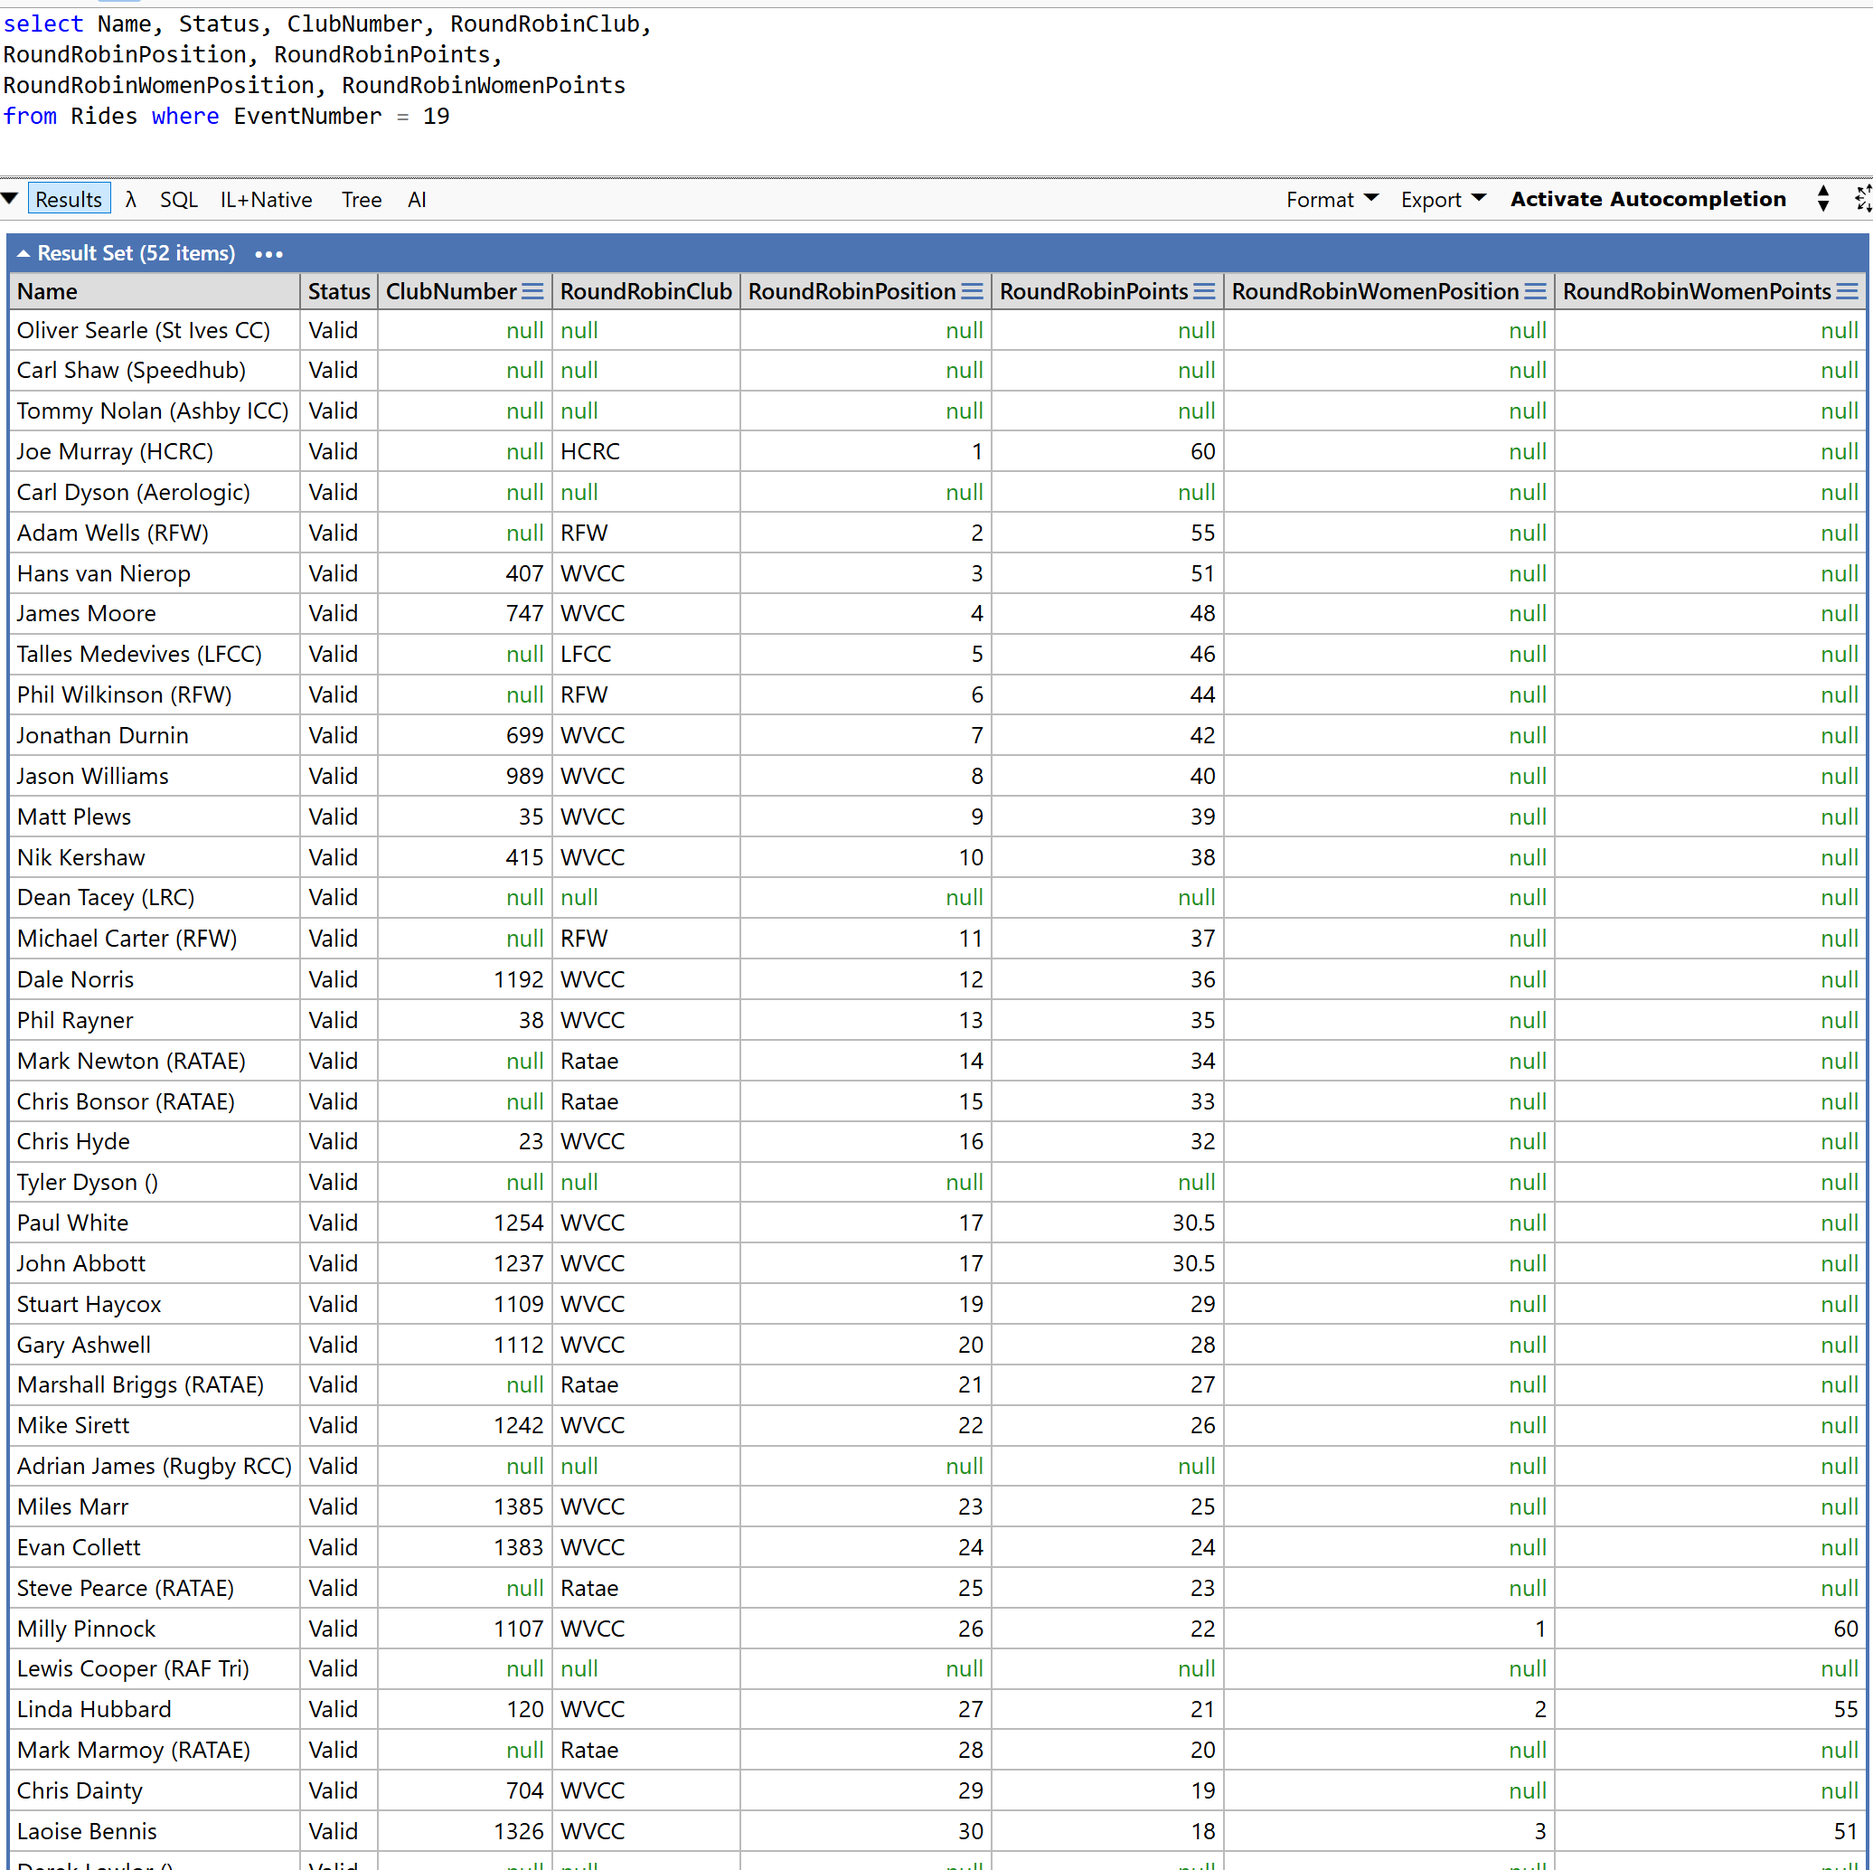
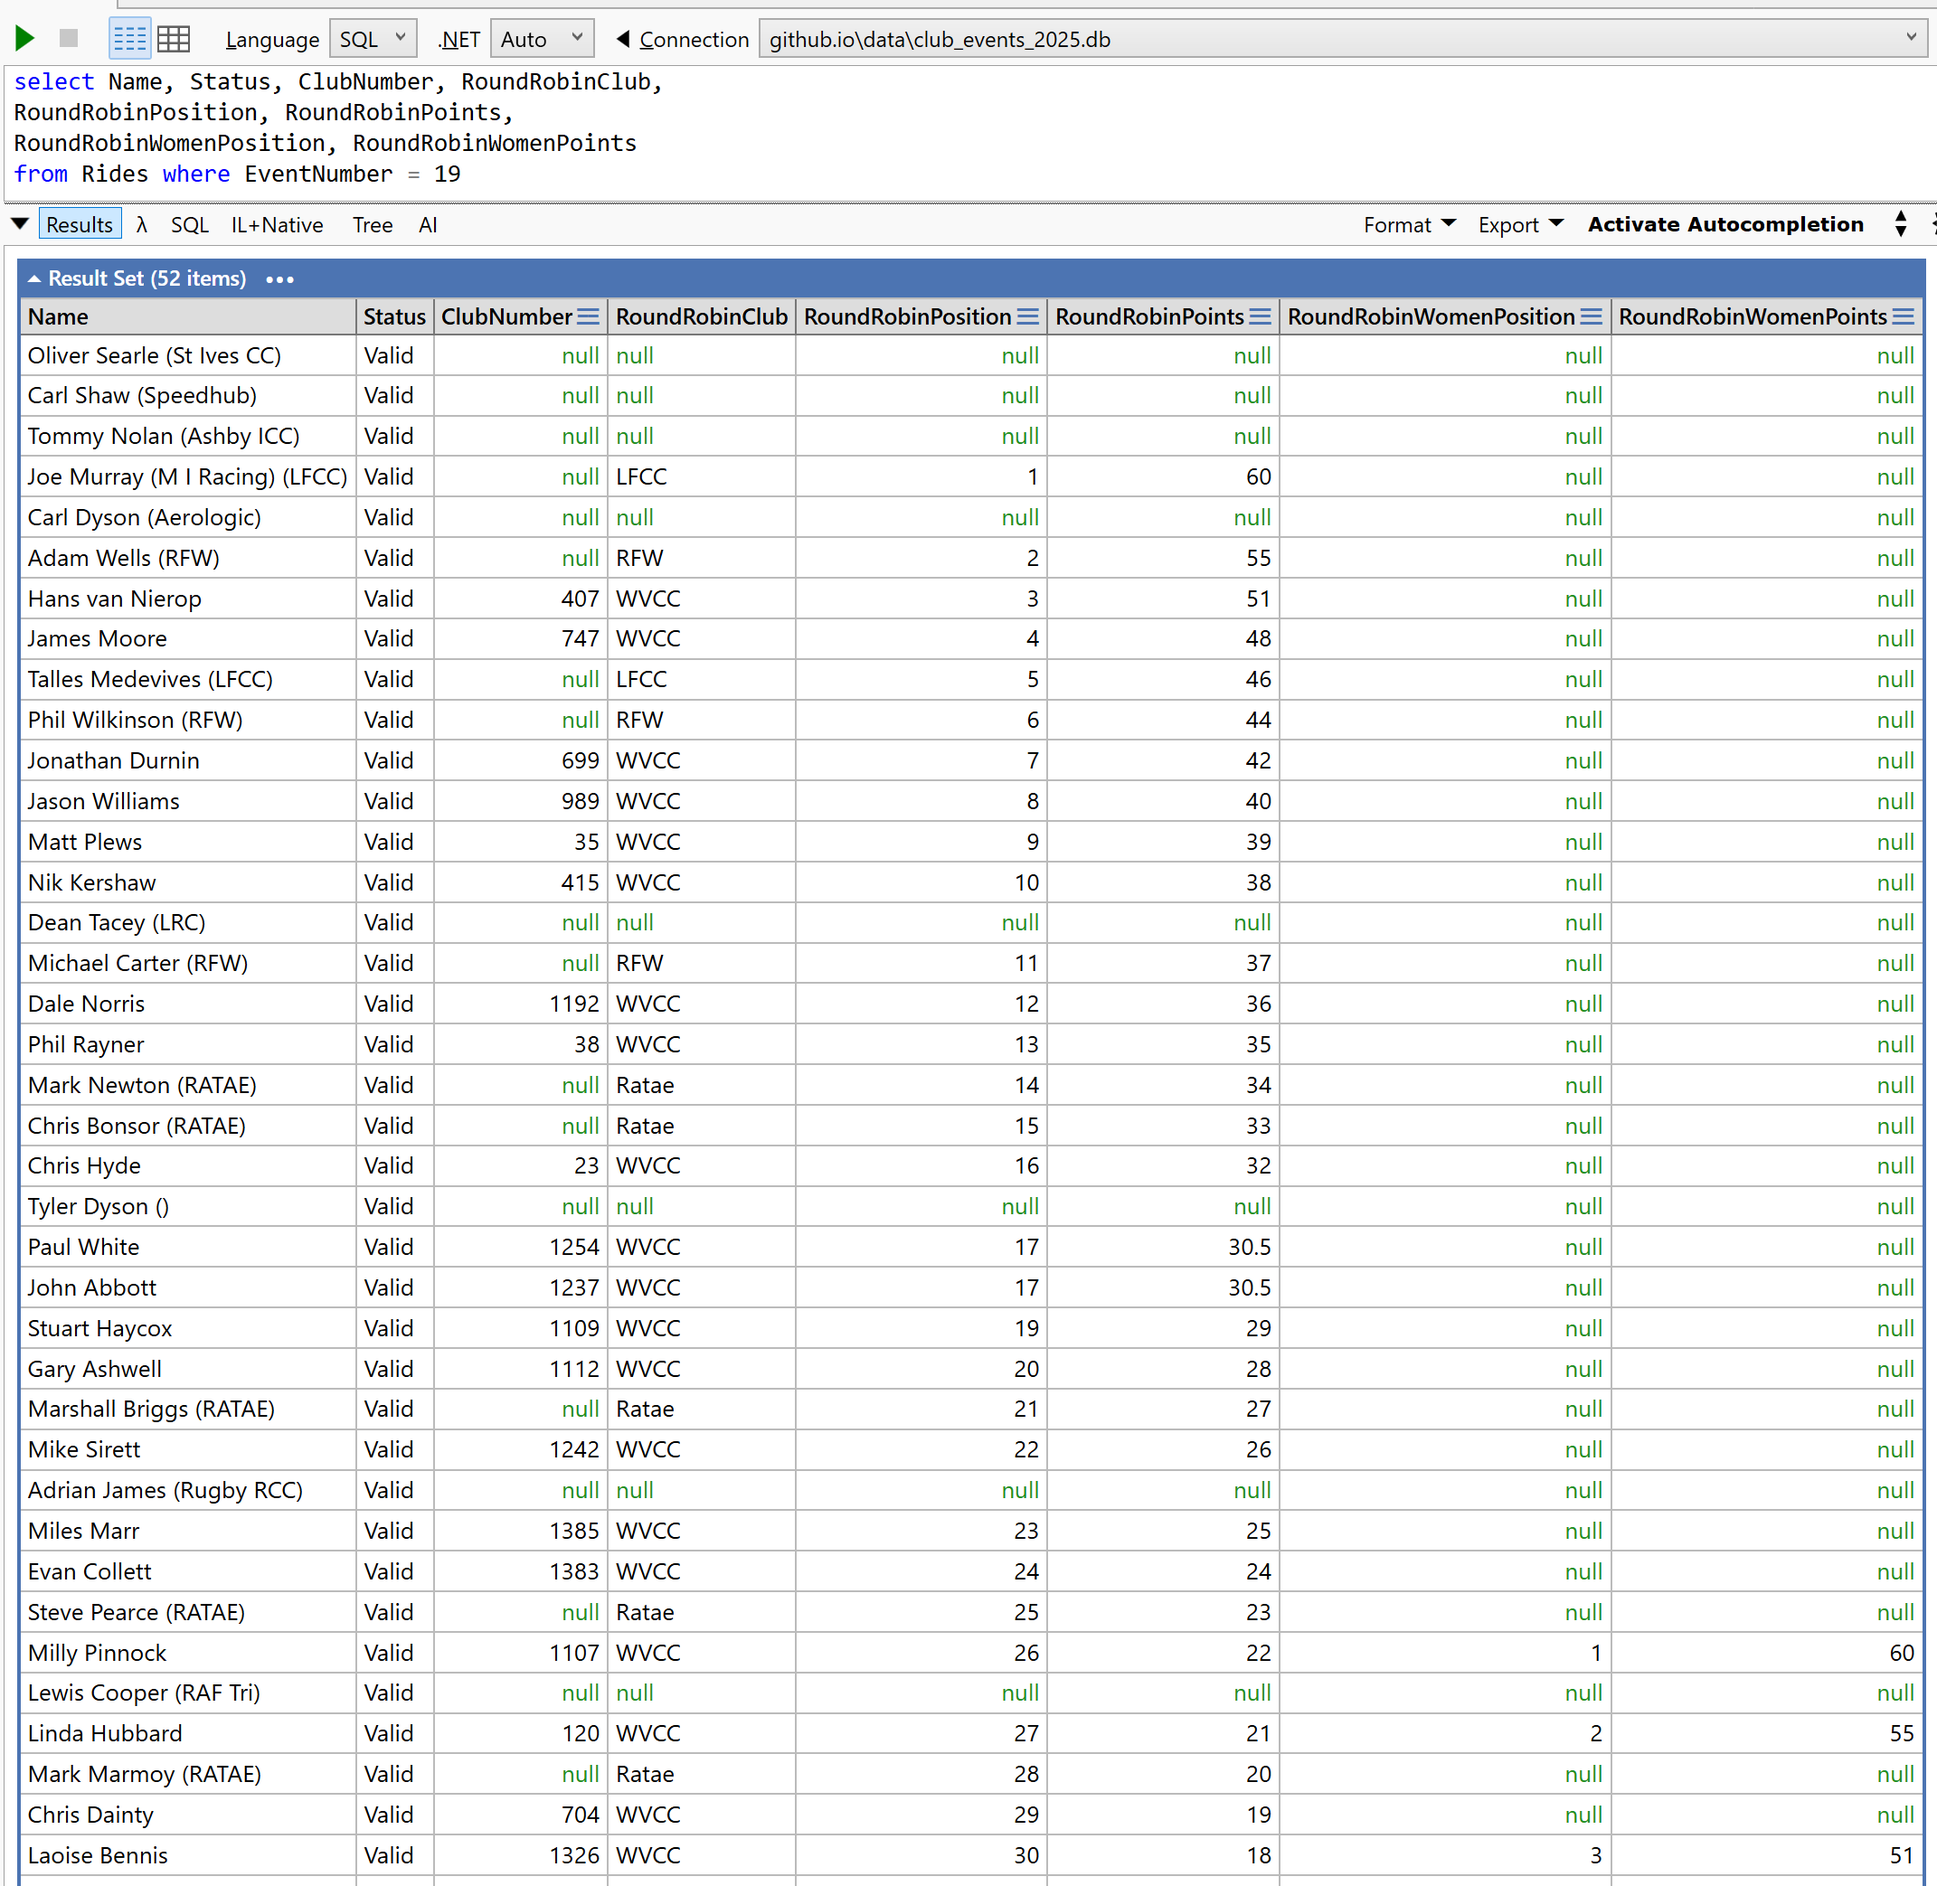
README additions re RoundRobinRiders with 2nd claim status

Changed region(s): [[0.0, 0.0, 1.0, 1.0]]

diff --git a/developer-docs/Round-robin-README.md b/developer-docs/Round-robin-README.md
@@ -191,4 +191,9 @@ RoundRobinWomenPosition, RoundRobinWomenPoints
 from Rides where EventNumber = 19
 ```
 
-Note that guest riders who are not members of one of the round robin clubs do *NOT* get a score.
+> [!NOTE]
+> 1. Guest riders who are not members of one of the round robin clubs do *NOT* get a score.
+>
+> 2. Riders representing a RR club as second claim can show their first claim club name in their name - e.g. "Joe Murray (M I Racing) (LFCC)".  
+>
+> 3. If a rider fails to identify the RR club they are representing, then no points will be scored.
